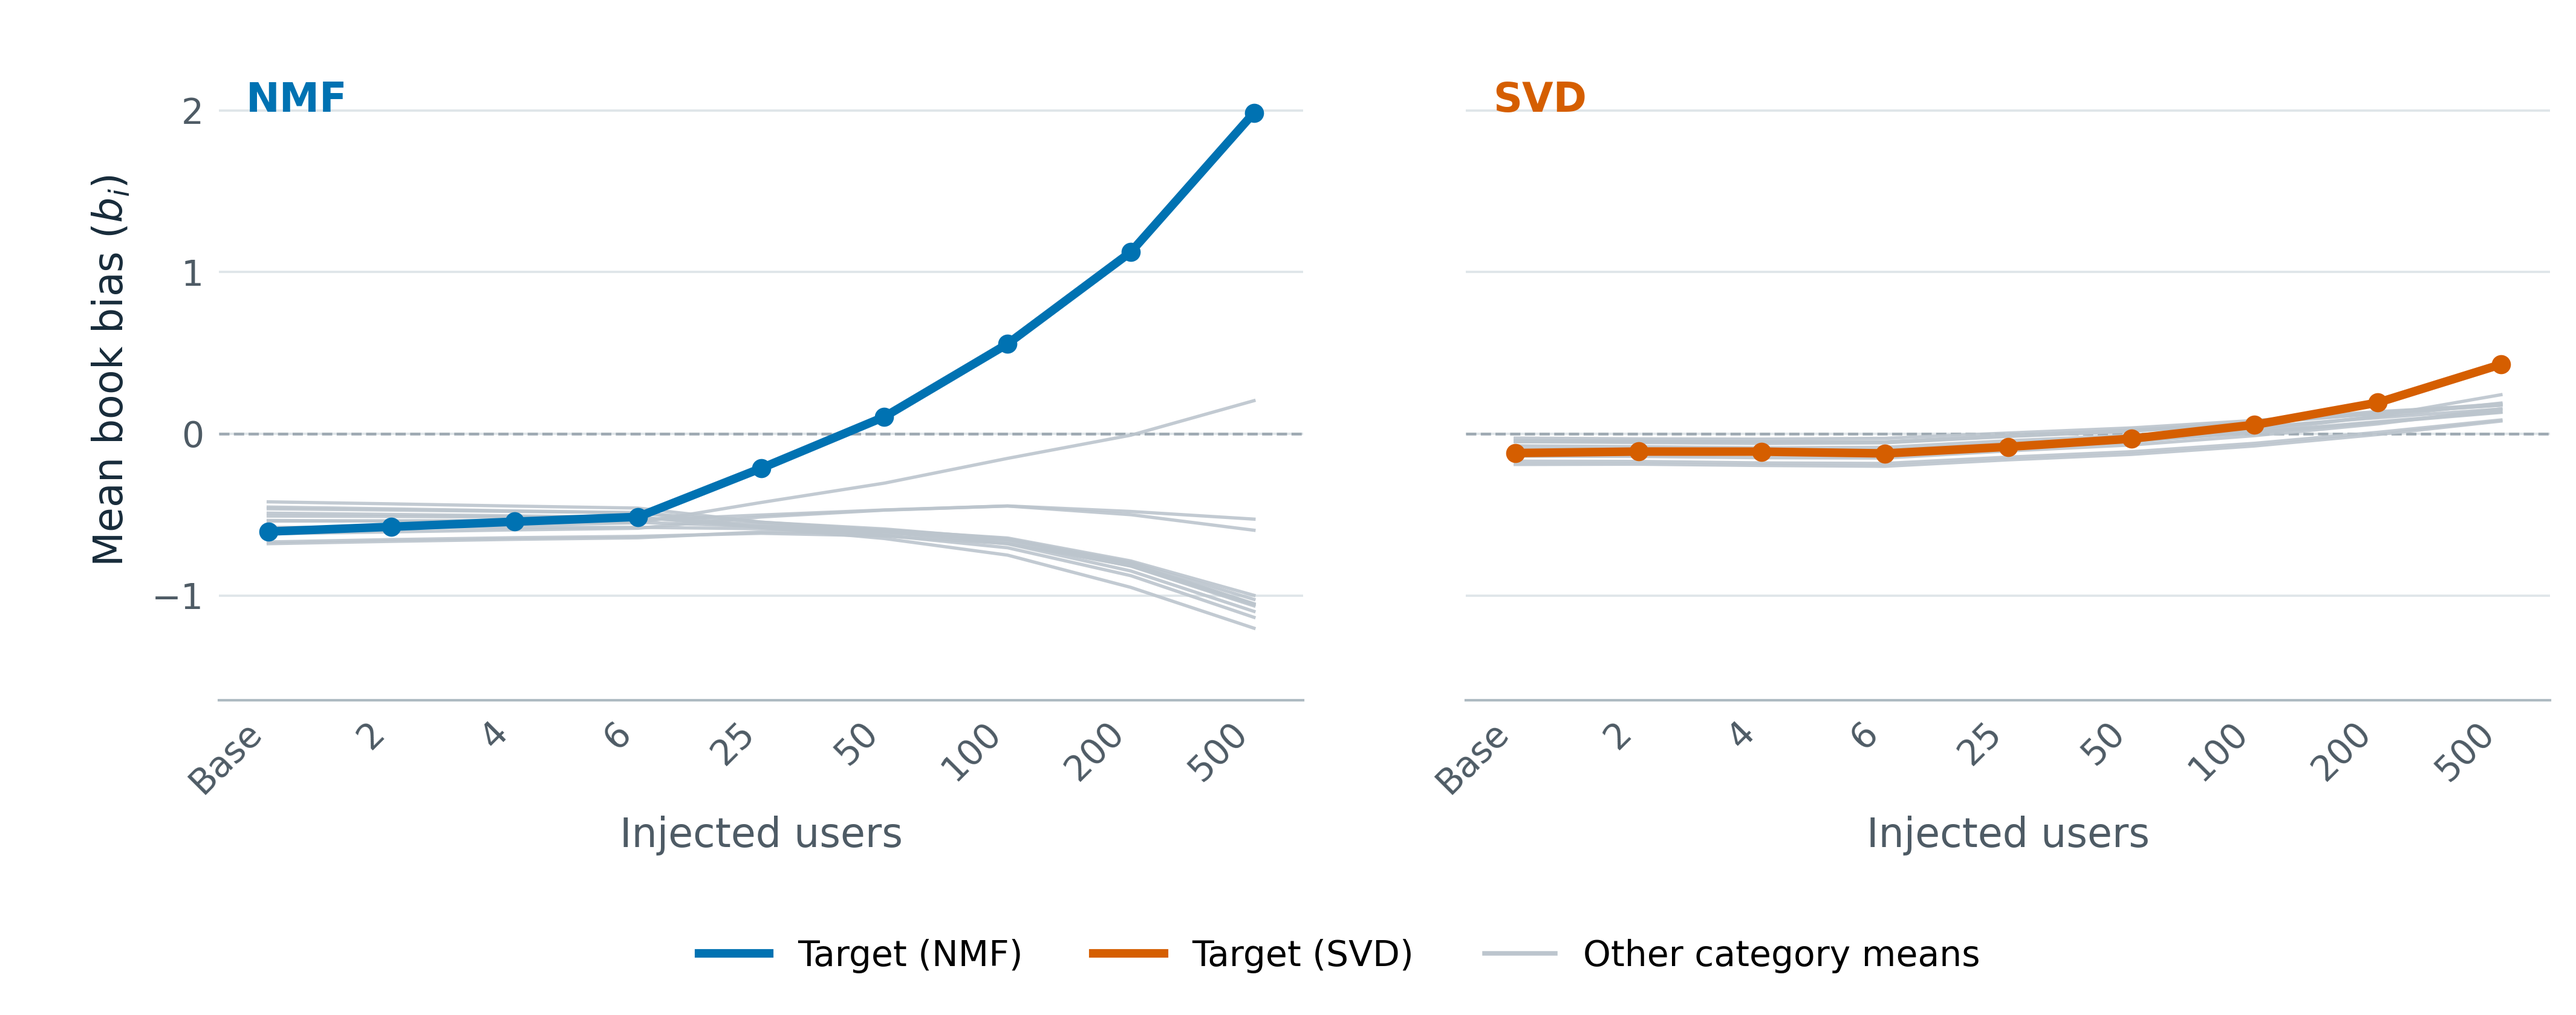
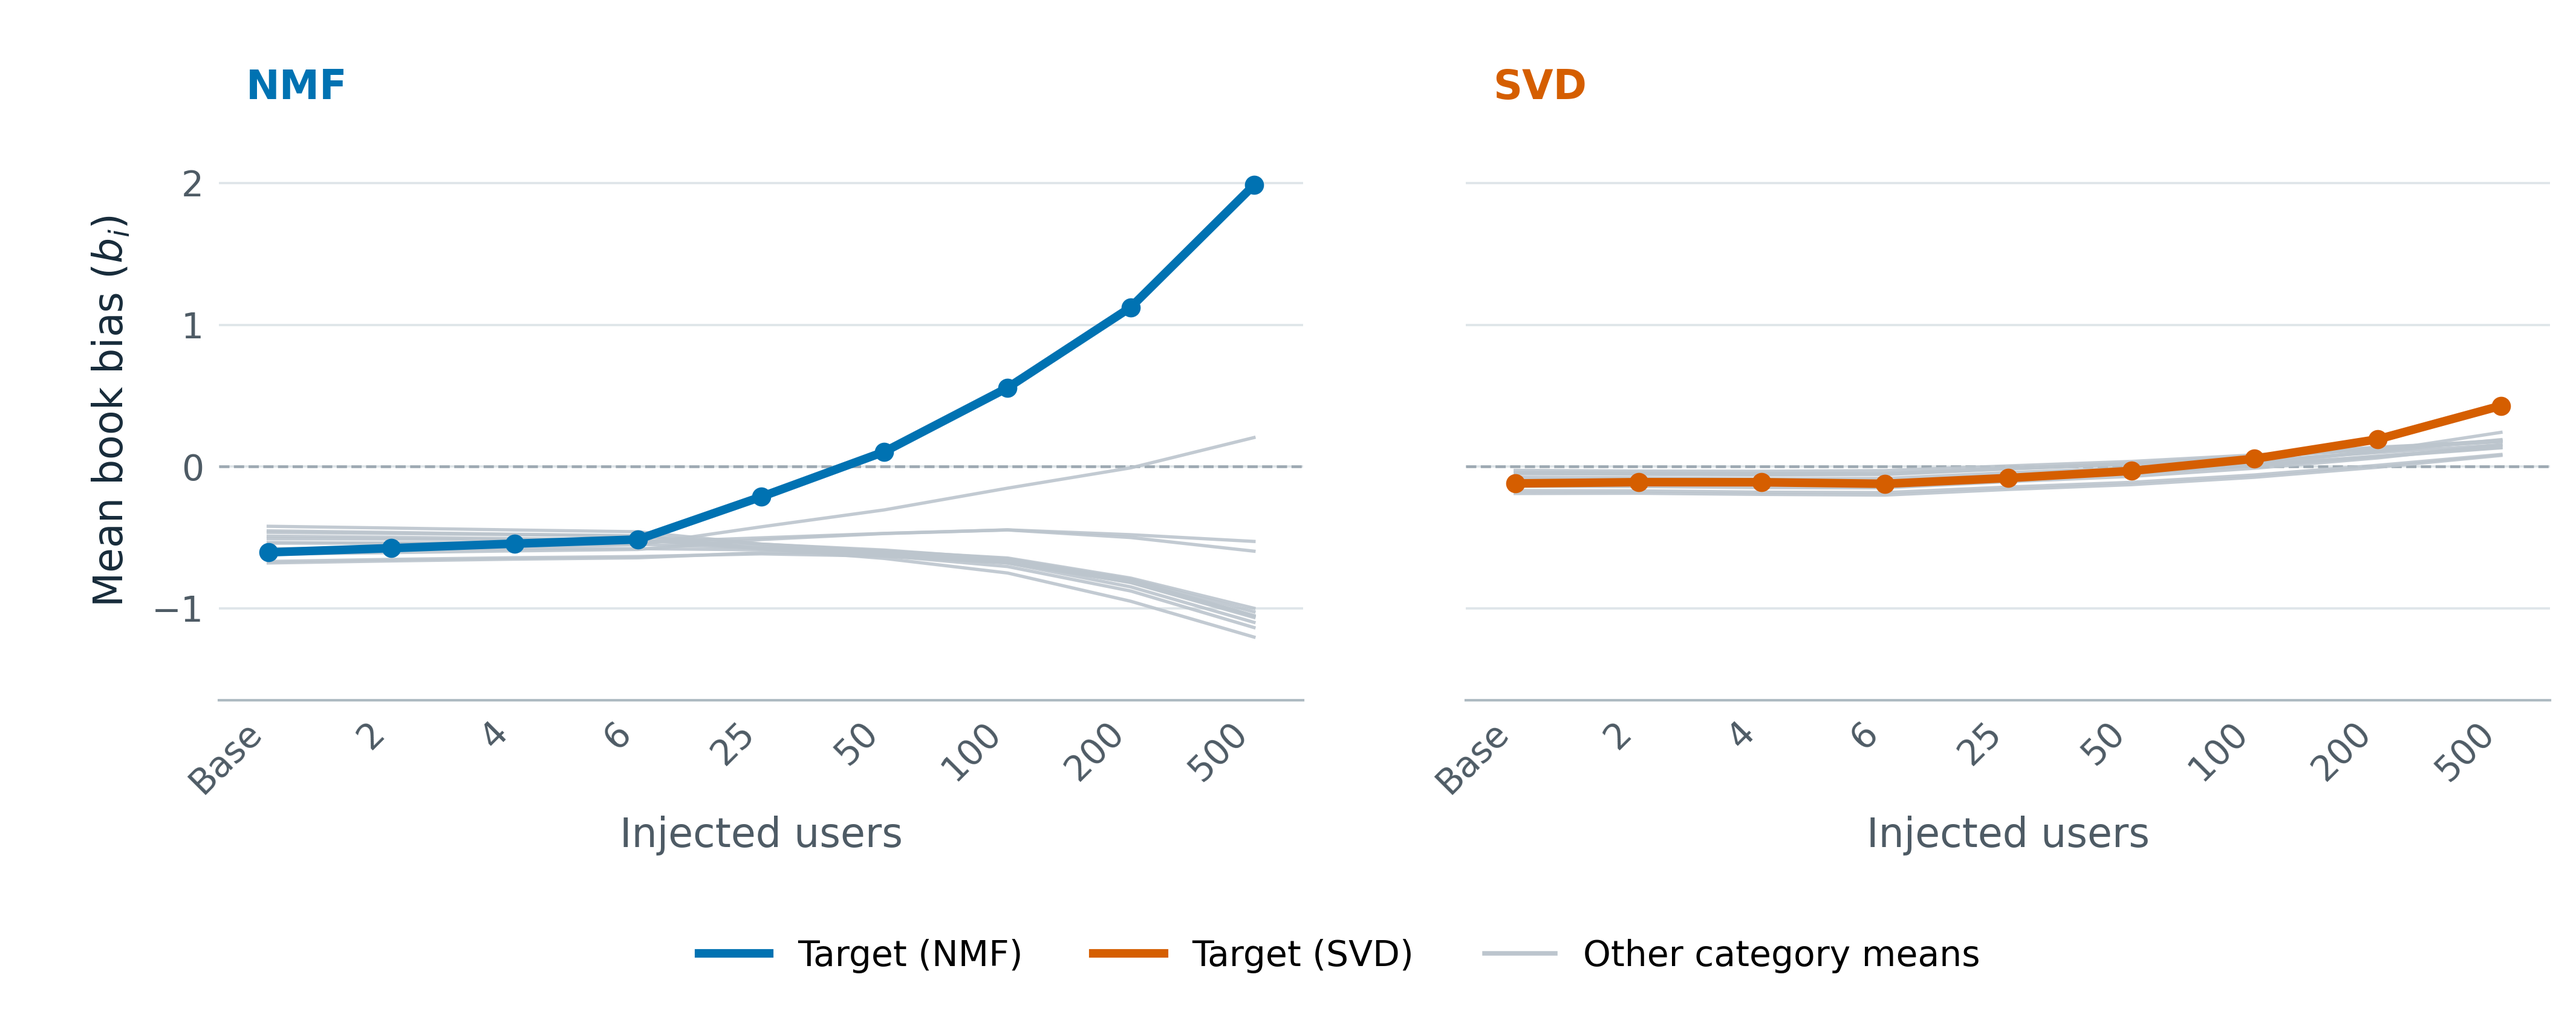
Place model headings above book bias plots

diff --git a/First_paper_material/Book/notebook/render_book_bias.py b/First_paper_material/Book/notebook/render_book_bias.py
@@ -1,0 +1,44 @@
+"""Rebuild remaining first-paper figures from saved data, without training models."""
+from pathlib import Path
+from collections import Counter
+import json,hashlib
+import numpy as np,pandas as pd
+import matplotlib
+matplotlib.use('Agg')
+import matplotlib.pyplot as plt
+from matplotlib.lines import Line2D
+from matplotlib.ticker import MaxNLocator,StrMethodFormatter
+R=Path('/home/moshtasa/Research/phd-recsys');O=R/'First_paper_material/Book';D=O/'data';D.mkdir(parents=True,exist_ok=True)
+NAVY='#172B3A';MUTED='#4E5B65';MODEL={'NMF':'#0072B2','SVD':'#D55E00'};GRAY='#BCC5CD'
+plt.rcParams.update({'font.family':'DejaVu Sans','font.size':8,'axes.titlesize':9,'axes.titleweight':'bold','axes.labelsize':8,'xtick.labelsize':7,'ytick.labelsize':7,'axes.spines.top':False,'axes.spines.right':False,'axes.spines.left':False,'axes.linewidth':.5,'savefig.facecolor':'white','figure.facecolor':'white'})
+SOURCES=[]
+def read(p):
+ SOURCES.append({'path':str(p),'sha256':hashlib.sha256(p.read_bytes()).hexdigest()});return pd.read_csv(p)
+def save(fig,name):fig.savefig(O/name,dpi=600);plt.close(fig);print('SAVED',name,flush=True)
+def style(ax,ns):
+ ax.set_xticks(np.arange(len(ns)),['Base']+[str(n) for n in ns[1:]],rotation=45,ha='right');ax.set_xlabel('Injected users',color=MUTED,labelpad=3)
+ ax.tick_params(axis='both',length=0,pad=3,colors=MUTED);ax.grid(axis='y',color='#DFE5E9',lw=.45);ax.set_axisbelow(True);ax.spines['bottom'].set_color('#AEBAC2');ax.yaxis.set_major_locator(MaxNLocator(nbins=5))
+configs=[('Books','Thriller',[0,2,4,6,25,50,100,200,500],'genre','books'),('Mobile apps','Shopping',[0,30,60,300],'category','allapps'),('Movies','1990',[0,2,6,10,50],'decade','movies')]
+
+f=pd.read_csv(D/'score_offset_parameters.csv')
+def panel(ax,d,model,col,ns,limits):
+ target=d.target.iloc[0]
+ for cat,g in d[d.category!=target].groupby('category'):
+  g=g.sort_values('n_fake');assert g.n_fake.tolist()==ns;ax.plot(range(len(ns)),g[col],color=GRAY,lw=.65,alpha=.9,zorder=2)
+ t=d[d.category==target].sort_values('n_fake');ax.plot(range(len(ns)),t[col],color=MODEL[model],lw=1.7,marker='o',ms=2.8,zorder=4)
+ if col=='mu_plus_bi':ax.plot(range(len(ns)),t.global_mean_mu,ls='--',color='#505A63',lw=.85,zorder=3)
+ else:ax.axhline(0,color='#9DA9B2',lw=.55,ls='--',zorder=1)
+ ax.set_ylim(*limits);style(ax,ns);ax.text(.025,.94,model,color=MODEL[model],transform=ax.transAxes,fontsize=8,weight='bold',va='top')
+def lim(d,col):
+ v=d[col].to_numpy()
+ if col=='mu_plus_bi':v=np.r_[v,d.global_mean_mu.to_numpy()]
+ lo=float(v.min());hi=float(v.max());pad=max((hi-lo)*.14,.1);return lo-pad,hi+pad
+legend=[Line2D([0],[0],color=MODEL['NMF'],lw=1.7,label='Target (NMF)'),Line2D([0],[0],color=MODEL['SVD'],lw=1.7,label='Target (SVD)'),Line2D([0],[0],color=GRAY,lw=.9,label='Other category means')]
+# Book item-bias figure, NMF and SVD side by side.
+b=f[f.dataset=='Books'];ns=configs[0][2];fig,axs=plt.subplots(1,2,figsize=(7.1,2.8),sharey=True)
+for ax,model in zip(axs,['NMF','SVD']):
+ panel(ax,b[b.model==model],model,'avg_bi',ns,lim(b,'avg_bi'))
+ for label in list(ax.texts): label.remove()
+ ax.text(.025,1.025,model,color=MODEL[model],transform=ax.transAxes,fontsize=8,weight='bold',va='bottom',clip_on=False)
+axs[0].set_ylabel(r'Mean book bias ($b_i$)',color=NAVY);fig.legend(handles=legend,loc='lower center',ncol=3,frameon=False,fontsize=7,bbox_to_anchor=(.52,.01))
+fig.subplots_adjust(left=.085,right=.99,top=.88,bottom=.31,wspace=.15);save(fig,'book_thriller_bi_updated.png')

diff --git a/First_paper_material/Book/notebook/build_remaining_figures.py b/First_paper_material/Book/notebook/build_remaining_figures.py
@@ -66,9 +66,12 @@ def lim(d,col):
 legend=[Line2D([0],[0],color=MODEL['NMF'],lw=1.7,label='Target (NMF)'),Line2D([0],[0],color=MODEL['SVD'],lw=1.7,label='Target (SVD)'),Line2D([0],[0],color=GRAY,lw=.9,label='Other category means')]
 # Book item-bias figure, NMF and SVD side by side.
 b=f[f.dataset=='Books'];ns=configs[0][2];fig,axs=plt.subplots(1,2,figsize=(7.1,2.8),sharey=True)
-for ax,model in zip(axs,['NMF','SVD']):panel(ax,b[b.model==model],model,'avg_bi',ns,lim(b,'avg_bi'))
+for ax,model in zip(axs,['NMF','SVD']):
+ panel(ax,b[b.model==model],model,'avg_bi',ns,lim(b,'avg_bi'))
+ for label in list(ax.texts): label.remove()
+ ax.text(.025,1.025,model,color=MODEL[model],transform=ax.transAxes,fontsize=8,weight='bold',va='bottom',clip_on=False)
 axs[0].set_ylabel(r'Mean book bias ($b_i$)',color=NAVY);fig.legend(handles=legend,loc='lower center',ncol=3,frameon=False,fontsize=7,bbox_to_anchor=(.52,.01))
-fig.subplots_adjust(left=.085,right=.99,top=.96,bottom=.31,wspace=.15);save(fig,'book_thriller_bi_updated.png')
+fig.subplots_adjust(left=.085,right=.99,top=.88,bottom=.31,wspace=.15);save(fig,'book_thriller_bi_updated.png')
 # Combined score-offset figure and the individual figures expected by the manuscript.
 fig,axs=plt.subplots(2,3,figsize=(7.1,4.25))
 for ci,(dataset,target,ns,category,domain) in enumerate(configs):
